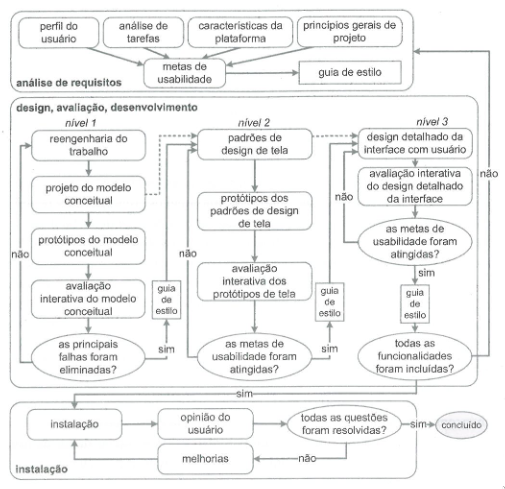
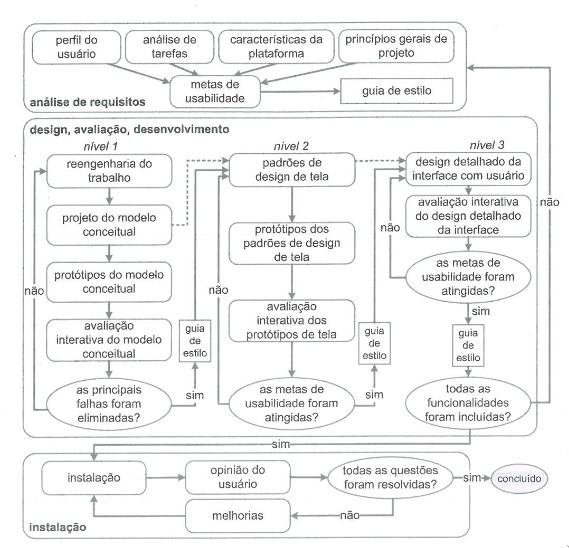
#7 Correção das imagens do processo de design e adição do histórico de versões nas avaliações do site

Changed region(s): [[0.0, 0.0, 1.0, 1.0]]

diff --git a/docs/planejamento/avaliacoes/planavaliacaoVLC.md b/docs/planejamento/avaliacoes/planavaliacaoVLC.md
@@ -52,9 +52,9 @@ Como na avaliação heurística não são utilizados usuários, faz-se obsoleta 
 A validação dos dados ocorrerá após a avaliação do site, por meio da revisão de colegas de grupo da disciplina Interação Humano Computador de todo o processo avaliativo realizado por mim.
 
 ## Bibliografia:
-
->[1] VLC. Disponível em: https://www.videolan.org/. Acesso em: 20/04/2023. <br>
->[2] Disponível em: https://aprender3.unb.br/pluginfile.php/2523393/mod_resource/content/3/Apresenta%C3%A7%C3%A3o%20cap09%20Livro%20Simone.pdf. Acesso em: 07/04/2023.
+</div>
+[1] VLC. Disponível em: https://www.videolan.org/. Acesso em: 20/04/2023. <br>
+[2] Disponível em: https://aprender3.unb.br/pluginfile.php/2523393/mod_resource/content/3/Apresenta%C3%A7%C3%A3o%20cap09%20Livro%20Simone.pdf. Acesso em: 07/04/2023.
 
 ## Histórico de Versões
 

diff --git a/docs/planejamento/avaliacoes/avaliacaoVLC.md b/docs/planejamento/avaliacoes/avaliacaoVLC.md
@@ -133,9 +133,9 @@ Documentação completa e detalhada porém de dificil acesso e em um link fora d
 Tabela 6 - Formulário de Avaliação Heurística do Ponto 10 (Fonte: Lucas Gobbi, 2023).
 
 ## Bibliografia
-
->[1] VLC. Disponível em: https://www.videolan.org/. Acesso em: 20/04/2023. <br>
->[2] Disponível em: https://aprender3.unb.br/pluginfile.php/2523393/mod_resource/content/3/Apresenta%C3%A7%C3%A3o%20cap09%20Livro%20Simone.pdf. Acesso em: 07/04/2023.
+</div>
+[1] VLC. Disponível em: https://www.videolan.org/. Acesso em: 20/04/2023. <br>
+[2] Disponível em: https://aprender3.unb.br/pluginfile.php/2523393/mod_resource/content/3/Apresenta%C3%A7%C3%A3o%20cap09%20Livro%20Simone.pdf. Acesso em: 07/04/2023.
 
 ## Histórico de Versões
 

diff --git a/docs/planejamento/cronograma_realizado.md b/docs/planejamento/cronograma_realizado.md
@@ -11,7 +11,6 @@ O cronograma da equipe foi estabelecido de acordo com as datas descritas para a 
 Este documento tem como objetivo marcar e mostrar as reais datas e prazos utilizados para realização das atividades requeridas pelo trabalho. O projeto é divido em pontos de controle, cada tabela de ponto de controle a seguir traça metas para um ponto de entrega de artefatos, juntamente com as datas de entrega da atividade, o integrante e a atividade que ele irá executar no ponto de controle e o revisor da atividade.
 
 </p>
-</br>
 
 ## Cronograma Realizado Ponto de Controle 1
 A Tabela 1 fornece os dados das realizações, junto de suas datas, dos artefatos do Ponto de Controle 1. Segue abaixo:

diff --git a/docs/planejamento/lista_de_sites.md b/docs/planejamento/lista_de_sites.md
@@ -1,4 +1,5 @@
 <div class="body">
+
 # Sites avaliados para o projeto da disciplina
 
 ## Introdução
